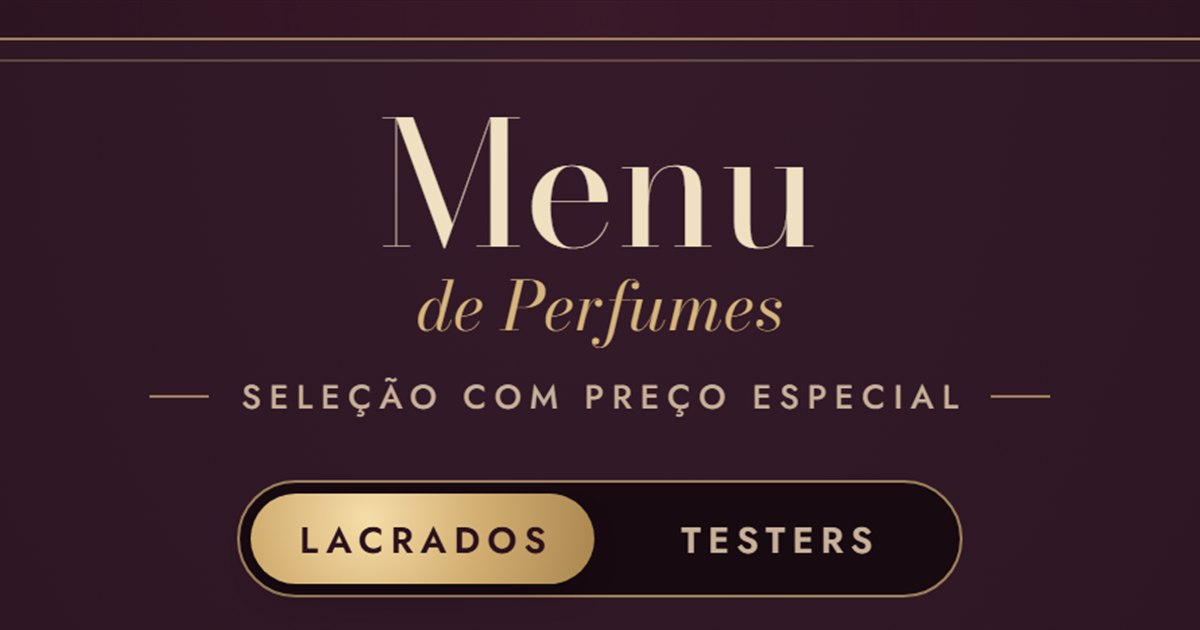
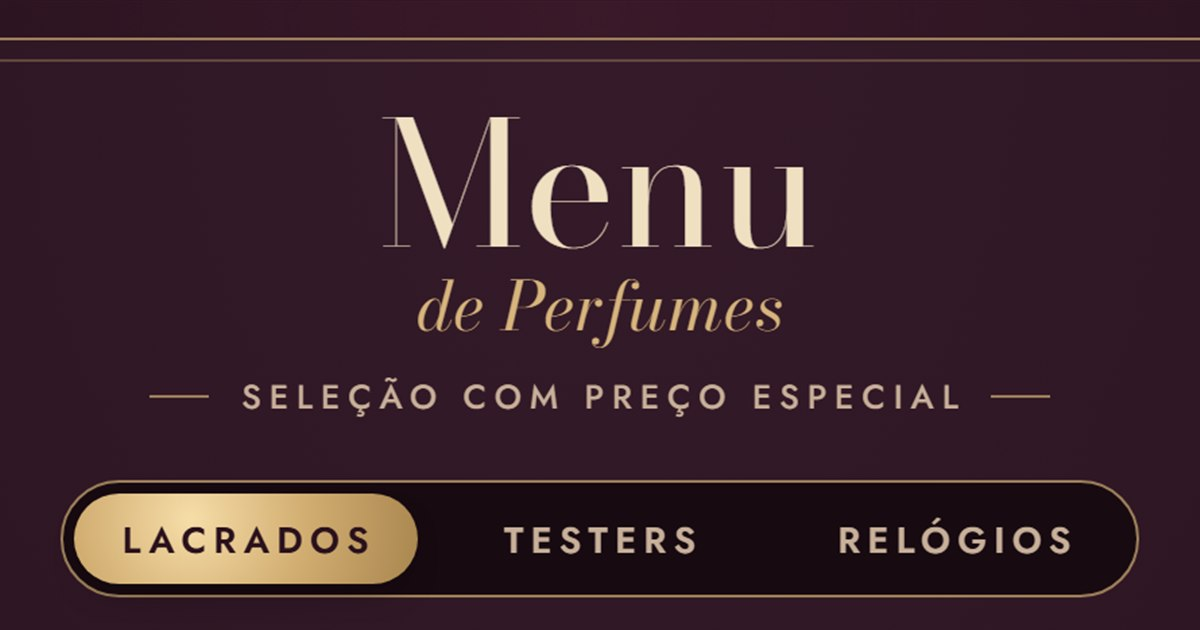
Aba Relogios: Technos Racer (2115KSL/1Y e 2315LAV/1V), Orient (MBSS1155A e MBSS1394) e Casio A158WA-1

Changed region(s): [[0.0308, 0.754, 0.9558, 0.9651]]

diff --git a/index.html b/index.html
@@ -175,15 +175,15 @@
     flex: none;
   }
 
-  /* ---------- abas (Perfumes / Testers) ----------
+  /* ---------- abas (Lacrados / Testers / Relógios) ----------
      radios escondidos controlam qual painel aparece, sem depender de JavaScript;
-     o script no fim só abre direto na aba Testers quando o link termina em #testers */
+     o script no fim só abre direto numa aba quando o link termina em #testers ou #relogios */
   .aba-radio { position: absolute; opacity: 0; pointer-events: none; }
   .tabs {
     position: relative;
     margin: 16px auto 2px;
     display: grid;
-    grid-template-columns: 1fr 1fr;   /* as duas abas com a mesma largura: a pílula só desliza meia largura */
+    grid-template-columns: 1fr 1fr 1fr;   /* as três abas com a mesma largura: a pílula desliza de uma em uma */
     width: fit-content;
     max-width: 100%;
     padding: 4px;
@@ -199,13 +199,14 @@
     top: 4px;
     bottom: 4px;
     left: 4px;
-    width: calc(50% - 6px);
+    width: calc((100% - 16px) / 3);   /* largura de uma aba: tira os 4px de borda interna dos dois lados e os 2 vãos de 4px */
     border-radius: 999px;
     background: radial-gradient(circle at 34% 28%, var(--seal-hi) 0%, var(--seal) 48%, var(--seal-lo) 100%);
     box-shadow: 0 6px 14px -8px var(--shadow);
     transition: transform 0.42s cubic-bezier(0.22, 1, 0.36, 1);
   }
   #aba-testers:checked ~ .tabs::before { transform: translateX(calc(100% + 4px)); }
+  #aba-relogios:checked ~ .tabs::before { transform: translateX(calc(200% + 8px)); }
   .tabs label {
     position: relative;
     z-index: 1;
@@ -230,7 +231,8 @@
     .tabs label:hover { color: var(--champagne); transform: scale(1.06); }
   }
   #aba-perfumes:checked ~ .tabs label[for="aba-perfumes"],
-  #aba-testers:checked ~ .tabs label[for="aba-testers"] {
+  #aba-testers:checked ~ .tabs label[for="aba-testers"],
+  #aba-relogios:checked ~ .tabs label[for="aba-relogios"] {
     color: var(--seal-ink);
   }
   @media (prefers-reduced-motion: reduce) {
@@ -238,13 +240,15 @@
     .tabs label:hover { transform: none; }
   }
   #aba-perfumes:focus-visible ~ .tabs label[for="aba-perfumes"],
-  #aba-testers:focus-visible ~ .tabs label[for="aba-testers"] {
+  #aba-testers:focus-visible ~ .tabs label[for="aba-testers"],
+  #aba-relogios:focus-visible ~ .tabs label[for="aba-relogios"] {
     outline: 2px solid var(--gold-bright);
     outline-offset: 3px;
   }
   .painel { display: none; }
   #aba-perfumes:checked ~ #painel-perfumes,
-  #aba-testers:checked ~ #painel-testers { display: block; }
+  #aba-testers:checked ~ #painel-testers,
+  #aba-relogios:checked ~ #painel-relogios { display: block; }
   .painel-nota {
     margin: 14px auto 0;
     max-width: 40ch;
@@ -927,8 +931,8 @@
     .stamp { font-size: 12px; letter-spacing: 0.12em; padding: 6px 9px 5px; }
     .stamp span { margin-right: -0.12em; }
     .tabs { margin-top: 14px; }
-    .tabs label { min-width: 0; padding: 9px 16px 8px; font-size: 12.5px; letter-spacing: 0.14em; }
-    .tabs label span { margin-right: -0.14em; }
+    .tabs label { min-width: 0; padding: 9px 12px 8px; font-size: 12px; letter-spacing: 0.1em; }   /* 3 abas cabem num celular de 360px */
+    .tabs label span { margin-right: -0.1em; }
     .painel-nota { font-size: 13px; }
   }
   @media (max-width: 370px) {
@@ -1024,9 +1028,11 @@
 
     <input class="aba-radio" type="radio" name="aba" id="aba-perfumes" checked>
     <input class="aba-radio" type="radio" name="aba" id="aba-testers">
+    <input class="aba-radio" type="radio" name="aba" id="aba-relogios">
     <div class="tabs">
       <label for="aba-perfumes"><span>Lacrados</span></label>
       <label for="aba-testers"><span>Testers</span></label>
+      <label for="aba-relogios"><span>Relógios</span></label>
     </div>
 
     <div class="painel" id="painel-perfumes">
@@ -1677,6 +1683,103 @@
 
     </div>
 
+    <div class="painel" id="painel-relogios">
+
+      <section>
+        <h2 class="sec-t"><span>Masculino</span></h2>
+
+        <article class="item">
+          <div class="frame-wrap">
+            <div class="frame">
+              <img src="img/technos-racer-2115ksl.png" alt="Technos Racer Prata e Preto 2115KSL/1Y" style="--w:100%; --l:0%; --b:0%">
+            </div>
+            <div class="seal"><b>28<em>%</em></b><span>OFF</span></div>
+          </div>
+          <div class="info">
+            <p class="brand">Technos <span class="vol"><span class="sep"></span>2115KSL/1Y</span></p>
+            <h3 class="name">Racer Prata e Preto</h3>
+            <p class="cond"><span>Novo</span></p>
+            <p class="de"><i>de</i> <s>R$&nbsp;490,00</s></p>
+            <p class="por"><i>por</i><span class="lead"></span><span class="price"><span class="cur">R$</span>349,00</span></p>
+            <p class="save"><span>Economize</span> R$&nbsp;141,00</p>
+          </div>
+        </article>
+
+        <article class="item">
+          <div class="frame-wrap">
+            <div class="frame">
+              <img src="img/technos-racer-2315lav.png" alt="Technos Racer Prata e Verde 2315LAV/1V" style="--w:100%; --l:0%; --b:0%">
+            </div>
+            <div class="seal"><b>16<em>%</em></b><span>OFF</span></div>
+          </div>
+          <div class="info">
+            <p class="brand">Technos <span class="vol"><span class="sep"></span>2315LAV/1V</span></p>
+            <h3 class="name">Racer Prata e Verde</h3>
+            <p class="cond"><span>Novo</span></p>
+            <p class="de"><i>de</i> <s>R$&nbsp;420,00</s></p>
+            <p class="por"><i>por</i><span class="lead"></span><span class="price"><span class="cur">R$</span>350,00</span></p>
+            <p class="save"><span>Economize</span> R$&nbsp;70,00</p>
+          </div>
+        </article>
+
+        <article class="item">
+          <div class="frame-wrap">
+            <div class="frame">
+              <img src="img/orient-mbss1155a.png" alt="Orient Analógico Prata e Azul MBSS1155A" style="--w:100%; --l:0%; --b:0%">
+            </div>
+            <div class="seal"><b>33<em>%</em></b><span>OFF</span></div>
+          </div>
+          <div class="info">
+            <p class="brand">Orient <span class="vol"><span class="sep"></span>MBSS1155A</span></p>
+            <h3 class="name">Analógico Prata e Azul</h3>
+            <p class="cond"><span>Novo</span></p>
+            <p class="de"><i>de</i> <s>R$&nbsp;299,00</s></p>
+            <p class="por"><i>por</i><span class="lead"></span><span class="price"><span class="cur">R$</span>199,00</span></p>
+            <p class="save"><span>Economize</span> R$&nbsp;100,00</p>
+          </div>
+        </article>
+
+        <article class="item">
+          <div class="frame-wrap">
+            <div class="frame">
+              <img src="img/orient-mbss1394.png" alt="Orient Analógico Prata e Preto MBSS1394" style="--w:100%; --l:0%; --b:0%">
+            </div>
+            <div class="seal"><b>30<em>%</em></b><span>OFF</span></div>
+          </div>
+          <div class="info">
+            <p class="brand">Orient <span class="vol"><span class="sep"></span>MBSS1394</span></p>
+            <h3 class="name">Analógico Prata e Preto</h3>
+            <p class="cond"><span>Novo</span></p>
+            <p class="de"><i>de</i> <s>R$&nbsp;358,00</s></p>
+            <p class="por"><i>por</i><span class="lead"></span><span class="price"><span class="cur">R$</span>249,00</span></p>
+            <p class="save"><span>Economize</span> R$&nbsp;109,00</p>
+          </div>
+        </article>
+      </section>
+
+      <section>
+        <h2 class="sec-t"><span>Unissex</span></h2>
+
+        <article class="item">
+          <div class="frame-wrap">
+            <div class="frame">
+              <img src="img/casio-a158wa-1.png" alt="Casio Vintage Prata A158WA-1" style="--w:100%; --l:0%; --b:0%">
+            </div>
+            <div class="seal"><b>44<em>%</em></b><span>OFF</span></div>
+          </div>
+          <div class="info">
+            <p class="brand">Casio <span class="vol"><span class="sep"></span>A158WA-1</span></p>
+            <h3 class="name">Vintage Prata</h3>
+            <p class="cond"><span>Novo</span></p>
+            <p class="de"><i>de</i> <s>R$&nbsp;270,00</s></p>
+            <p class="por"><i>por</i><span class="lead"></span><span class="price"><span class="cur">R$</span>150,00</span></p>
+            <p class="save"><span>Economize</span> R$&nbsp;120,00</p>
+          </div>
+        </article>
+      </section>
+
+    </div>
+
     <footer class="foot">
       <div class="cta-box">
         <p class="cta">Pra reservar o seu, é só me chamar.</p>
@@ -1712,14 +1815,19 @@
 <!-- perfil olfativo de cada perfume (acordes + pirâmide), tirado do Fragrantica com o perfil.ps1; o item liga pelo data-perfil -->
 <script type="application/json" id="perfis">{"ysl-libre":{"fonte":"https://www.fragrantica.com.br/perfume/Yves-Saint-Laurent/Libre-56077.html","acordes":[{"nome":"floral branco","forca":100,"cor":"#EDF2FB"},{"nome":"cítrico","forca":81,"cor":"#F9FF52"},{"nome":"lavanda","forca":75,"cor":"#9B7DB8"},{"nome":"baunilha","forca":64,"cor":"#FFFEC0"},{"nome":"aromático","forca":57,"cor":"#37A089"},{"nome":"doce","forca":56,"cor":"#EE363B"},{"nome":"atalcado","forca":53,"cor":"#EEDDCC"},{"nome":"animálico","forca":52,"cor":"#8E4B13"},{"nome":"almíscarado","forca":50,"cor":"#E7D8EA"},{"nome":"amadeirado","forca":50,"cor":"#774414"}],"notas":{"topo":["Lavanda","Mandarina","Groselha Preta","Petitgrain"],"coracao":["Lavanda","Flor de Laranjeira","Jasmim"],"fundo":["Baunilha de Madagascar","Almíscar","Cedro","Âmbar Cinzento"]},"quando":[{"nome":"Inverno","forca":82,"cor":"#78D6F0","votos":"6,8 mil"},{"nome":"Primavera","forca":76,"cor":"#9FE584","votos":"6,3 mil"},{"nome":"Verão","forca":46,"cor":"#FC958A","votos":"3,8 mil"},{"nome":"Outono","forca":100,"cor":"#F9BE6E","votos":"8,3 mil"},{"nome":"Dia","forca":90,"cor":"#F59E0B","votos":"7,5 mil"},{"nome":"Noite","forca":83,"cor":"#8BB8D4","votos":"6,9 mil"}]},"rabanne-million-gold-elixir":{"fonte":"https://www.fragrantica.com.br/perfume/Rabanne/Million-Gold-Elixir-102755.html","acordes":[{"nome":"baunilha","forca":100,"cor":"#FFFEC0"},{"nome":"amadeirado","forca":85,"cor":"#774414"},{"nome":"atalcado","forca":79,"cor":"#EEDDCC"},{"nome":"cítrico","forca":66,"cor":"#F9FF52"},{"nome":"especiado quente","forca":52,"cor":"#CC3300"},{"nome":"balsâmico","forca":52,"cor":"#AD8359"},{"nome":"doce","forca":48,"cor":"#EE363B"}],"notas":{"topo":["Mandarina Amarela"],"coracao":["Sândalo"],"fundo":["Baunilha"]},"quando":[{"nome":"Inverno","forca":100,"cor":"#78D6F0","votos":"506"},{"nome":"Primavera","forca":45,"cor":"#9FE584","votos":"226"},{"nome":"Verão","forca":14,"cor":"#FC958A","votos":"69"},{"nome":"Outono","forca":90,"cor":"#F9BE6E","votos":"457"},{"nome":"Dia","forca":53,"cor":"#F59E0B","votos":"267"},{"nome":"Noite","forca":88,"cor":"#8BB8D4","votos":"446"}]},"lancome-la-vie-est-belle-elixir":{"fonte":"https://www.fragrantica.com.br/perfume/Lancome/La-Vie-est-Belle-L-Elixir-95856.html","acordes":[{"nome":"frutado","forca":100,"cor":"#FC4B29"},{"nome":"doce","forca":79,"cor":"#EE363B"},{"nome":"ozônico","forca":79,"cor":"#C9FDFB"},{"nome":"rosa","forca":70,"cor":"#FE016B"},{"nome":"aquático","forca":66,"cor":"#63CCE2"},{"nome":"couro","forca":62,"cor":"#78483A"},{"nome":"álcool","forca":49,"cor":"#F8EA8C"},{"nome":"verde","forca":47,"cor":"#0E8C1D"},{"nome":"animálico","forca":46,"cor":"#8E4B13"},{"nome":"cítrico","forca":45,"cor":"#F9FF52"}],"notas":{"topo":["Framboesa","Licor","Bergamota da Calábria"],"coracao":["Folha de Violeta","Rosa"],"fundo":["Couro","Manteiga de Cacau","Cedro"]},"quando":[{"nome":"Inverno","forca":96,"cor":"#78D6F0","votos":"1,3 mil"},{"nome":"Primavera","forca":83,"cor":"#9FE584","votos":"1,1 mil"},{"nome":"Verão","forca":44,"cor":"#FC958A","votos":"589"},{"nome":"Outono","forca":100,"cor":"#F9BE6E","votos":"1,4 mil"},{"nome":"Dia","forca":91,"cor":"#F59E0B","votos":"1,2 mil"},{"nome":"Noite","forca":93,"cor":"#8BB8D4","votos":"1,3 mil"}]},"ch-ch-2015":{"fonte":"https://www.fragrantica.com.br/perfume/Carolina-Herrera/CH-2015-31507.html","acordes":[{"nome":"cítrico","forca":100,"cor":"#F9FF52"},{"nome":"amadeirado","forca":68,"cor":"#774414"},{"nome":"floral branco","forca":59,"cor":"#EDF2FB"},{"nome":"couro","forca":56,"cor":"#78483A"},{"nome":"doce","forca":53,"cor":"#EE363B"},{"nome":"animálico","forca":49,"cor":"#8E4B13"},{"nome":"aromático","forca":49,"cor":"#37A089"},{"nome":"atalcado","forca":48,"cor":"#EEDDCC"},{"nome":"patchouli","forca":47,"cor":"#63652E"},{"nome":"fresco especiado","forca":47,"cor":"#83C928"}],"notas":{"topo":["Toranja","Bergamota","Limão"],"coracao":["Flor de Laranjeira","Rosa","Jasmim"],"fundo":["Couro","Patchouli","Pralinê","Almíscar","Sândalo","Cedro"]},"quando":[{"nome":"Inverno","forca":75,"cor":"#78D6F0","votos":"337"},{"nome":"Primavera","forca":78,"cor":"#9FE584","votos":"347"},{"nome":"Verão","forca":46,"cor":"#FC958A","votos":"207"},{"nome":"Outono","forca":100,"cor":"#F9BE6E","votos":"447"},{"nome":"Dia","forca":99,"cor":"#F59E0B","votos":"441"},{"nome":"Noite","forca":83,"cor":"#8BB8D4","votos":"372"}]},"ch-good-girl-jasmine-absolute":{"fonte":"https://www.fragrantica.com.br/perfume/Carolina-Herrera/Good-Girl-Jasmine-Absolute-120291.html","acordes":[{"nome":"doce","forca":100,"cor":"#EE363B"},{"nome":"floral branco","forca":70,"cor":"#EDF2FB"},{"nome":"amêndoa","forca":61,"cor":"#F1E3C5"},{"nome":"frutado","forca":61,"cor":"#FC4B29"},{"nome":"baunilha","forca":56,"cor":"#FFFEC0"},{"nome":"caramelo","forca":52,"cor":"#DDA356"},{"nome":"âmbar","forca":49,"cor":"#BC4D10"},{"nome":"amendoado","forca":48,"cor":"#B4955F"},{"nome":"floral","forca":47,"cor":"#FF5F8D"}],"notas":{"topo":["Groselha Preta","Mandarina"],"coracao":["Jasmim","Amêndoa Amarga"],"fundo":["Toffee","Fava Tonka"]},"quando":[{"nome":"Inverno","forca":100,"cor":"#78D6F0","votos":"586"},{"nome":"Primavera","forca":55,"cor":"#9FE584","votos":"324"},{"nome":"Verão","forca":24,"cor":"#FC958A","votos":"141"},{"nome":"Outono","forca":98,"cor":"#F9BE6E","votos":"577"},{"nome":"Dia","forca":61,"cor":"#F59E0B","votos":"356"},{"nome":"Noite","forca":99,"cor":"#8BB8D4","votos":"582"}]},"rabanne-invictus-parfum":{"fonte":"https://www.fragrantica.com.br/perfume/Rabanne/Invictus-Parfum-90433.html","acordes":[{"nome":"almíscarado","forca":100,"cor":"#E7D8EA"},{"nome":"aromático","forca":98,"cor":"#37A089"},{"nome":"marinho","forca":89,"cor":"#0E529B"},{"nome":"saboneteado","forca":89,"cor":"#E3F6FC"},{"nome":"atalcado","forca":82,"cor":"#EEDDCC"},{"nome":"amadeirado","forca":79,"cor":"#774414"},{"nome":"lavanda","forca":75,"cor":"#9B7DB8"},{"nome":"aquático","forca":66,"cor":"#63CCE2"},{"nome":"ozônico","forca":54,"cor":"#C9FDFB"},{"nome":"salgado","forca":53,"cor":"#E9FFF9"}],"notas":{"topo":["Notas marinhas","Lavanda","Pimenta Rosa"],"coracao":["Sabão","Folha de Violeta","Murta"],"fundo":["Almíscar","Cashmeran","Sândalo"]},"quando":[{"nome":"Inverno","forca":38,"cor":"#78D6F0","votos":"821"},{"nome":"Primavera","forca":100,"cor":"#9FE584","votos":"2,1 mil"},{"nome":"Verão","forca":100,"cor":"#FC958A","votos":"2,1 mil"},{"nome":"Outono","forca":83,"cor":"#F9BE6E","votos":"1,8 mil"},{"nome":"Dia","forca":97,"cor":"#F59E0B","votos":"2,1 mil"},{"nome":"Noite","forca":78,"cor":"#8BB8D4","votos":"1,7 mil"}]},"givenchy-gentleman-2017":{"fonte":"https://www.fragrantica.com.br/perfume/Givenchy/Gentleman-2017-46040.html","acordes":[{"nome":"íris","forca":100,"cor":"#B7A7D7"},{"nome":"frutado","forca":96,"cor":"#FC4B29"},{"nome":"doce","forca":87,"cor":"#EE363B"},{"nome":"atalcado","forca":82,"cor":"#EEDDCC"},{"nome":"especiado quente","forca":80,"cor":"#CC3300"},{"nome":"aromático","forca":79,"cor":"#37A089"},{"nome":"lavanda","forca":78,"cor":"#9B7DB8"},{"nome":"couro","forca":69,"cor":"#78483A"},{"nome":"terroso","forca":68,"cor":"#544838"},{"nome":"violeta","forca":65,"cor":"#9C1DFF"}],"notas":{"topo":["Pera","Cardamomo","Abacaxi"],"coracao":["Íris","Lavanda","Gerânio"],"fundo":["Couro","Casca de Baunilha Negra","Patchouli"]},"quando":[{"nome":"Inverno","forca":56,"cor":"#78D6F0","votos":"812"},{"nome":"Primavera","forca":100,"cor":"#9FE584","votos":"1,4 mil"},{"nome":"Verão","forca":60,"cor":"#FC958A","votos":"862"},{"nome":"Outono","forca":96,"cor":"#F9BE6E","votos":"1,4 mil"},{"nome":"Dia","forca":96,"cor":"#F59E0B","votos":"1,4 mil"},{"nome":"Noite","forca":72,"cor":"#8BB8D4","votos":"1 mil"}]},"hugo-jeans":{"fonte":"https://www.fragrantica.com.br/perfume/Hugo-Boss/Hugo-Jeans-Man-78426.html","acordes":[{"nome":"aromático","forca":100,"cor":"#37A089"},{"nome":"amadeirado","forca":82,"cor":"#774414"},{"nome":"fresco especiado","forca":79,"cor":"#83C928"},{"nome":"cítrico","forca":77,"cor":"#F9FF52"},{"nome":"verde","forca":63,"cor":"#0E8C1D"}],"notas":{"topo":["Toranja","Lima"],"coracao":["Bagas de Zimbro","Hortelã"],"fundo":["Cedro","Vetiver"]},"quando":[{"nome":"Inverno","forca":20,"cor":"#78D6F0","votos":"41"},{"nome":"Primavera","forca":98,"cor":"#9FE584","votos":"204"},{"nome":"Verão","forca":93,"cor":"#FC958A","votos":"193"},{"nome":"Outono","forca":49,"cor":"#F9BE6E","votos":"102"},{"nome":"Dia","forca":100,"cor":"#F59E0B","votos":"208"},{"nome":"Noite","forca":23,"cor":"#8BB8D4","votos":"48"}]},"boss-bottled-night":{"fonte":"https://www.fragrantica.com.br/perfume/Hugo-Boss/Boss-Bottled-Night-8825.html","acordes":[{"nome":"amadeirado","forca":100,"cor":"#774414"},{"nome":"violeta","forca":95,"cor":"#9C1DFF"},{"nome":"atalcado","forca":94,"cor":"#EEDDCC"},{"nome":"lavanda","forca":82,"cor":"#9B7DB8"},{"nome":"couro","forca":75,"cor":"#78483A"},{"nome":"almíscarado","forca":67,"cor":"#E7D8EA"},{"nome":"defumado","forca":66,"cor":"#827487"},{"nome":"floral","forca":55,"cor":"#FF5F8D"},{"nome":"aromático","forca":51,"cor":"#37A089"},{"nome":"fresco especiado","forca":46,"cor":"#83C928"}],"notas":{"topo":["Lavanda","Bétula"],"coracao":["Violeta"],"fundo":["Notas Amadeiradas","Almíscar"]},"quando":[{"nome":"Inverno","forca":66,"cor":"#78D6F0","votos":"1,6 mil"},{"nome":"Primavera","forca":75,"cor":"#9FE584","votos":"1,8 mil"},{"nome":"Verão","forca":42,"cor":"#FC958A","votos":"1 mil"},{"nome":"Outono","forca":81,"cor":"#F9BE6E","votos":"2 mil"},{"nome":"Dia","forca":47,"cor":"#F59E0B","votos":"1,2 mil"},{"nome":"Noite","forca":100,"cor":"#8BB8D4","votos":"2,4 mil"}]},"jpg-ultra-male":{"fonte":"https://www.fragrantica.com.br/perfume/Jean-Paul-Gaultier/Ultra-Male-30947.html","acordes":[{"nome":"baunilha","forca":100,"cor":"#FFFEC0"},{"nome":"frutado","forca":80,"cor":"#FC4B29"},{"nome":"aromático","forca":80,"cor":"#37A089"},{"nome":"doce","forca":79,"cor":"#EE363B"},{"nome":"canela","forca":70,"cor":"#D2691E"},{"nome":"especiado quente","forca":69,"cor":"#CC3300"},{"nome":"fresco especiado","forca":64,"cor":"#83C928"},{"nome":"lavanda","forca":63,"cor":"#9B7DB8"},{"nome":"atalcado","forca":59,"cor":"#EEDDCC"},{"nome":"verde","forca":59,"cor":"#0E8C1D"}],"notas":{"topo":["Pera","Lavanda","Hortelã","Bergamota","Limão"],"coracao":["Canela","Sálvia Esclaréia","Alcarávia"],"fundo":["Casca de Baunilha Negra","Âmbar","Patchouli","Cedro"]},"quando":[{"nome":"Inverno","forca":100,"cor":"#78D6F0","votos":"11,1 mil"},{"nome":"Primavera","forca":53,"cor":"#9FE584","votos":"5,9 mil"},{"nome":"Verão","forca":26,"cor":"#FC958A","votos":"2,8 mil"},{"nome":"Outono","forca":88,"cor":"#F9BE6E","votos":"9,7 mil"},{"nome":"Dia","forca":38,"cor":"#F59E0B","votos":"4,2 mil"},{"nome":"Noite","forca":99,"cor":"#8BB8D4","votos":"11 mil"}]},"jpg-classique":{"fonte":"https://www.fragrantica.com.br/perfume/Jean-Paul-Gaultier/Classique-427.html","acordes":[{"nome":"floral branco","forca":100,"cor":"#EDF2FB"},{"nome":"doce","forca":98,"cor":"#EE363B"},{"nome":"atalcado","forca":97,"cor":"#EEDDCC"},{"nome":"cítrico","forca":87,"cor":"#F9FF52"},{"nome":"baunilha","forca":75,"cor":"#FFFEC0"},{"nome":"floral","forca":72,"cor":"#FF5F8D"},{"nome":"picante suave","forca":72,"cor":"#E27752"},{"nome":"anis","forca":66,"cor":"#C3D7B3"},{"nome":"amadeirado","forca":62,"cor":"#774414"},{"nome":"floral amarelo","forca":62,"cor":"#FFDC10"}],"notas":{"topo":["Flor de Laranjeira","Anis Estrelado","Rosa","Mandarina","Pera","Bergamota"],"coracao":["Ylang Ylang","Gengibre","Orquídea","Tuberosa","Íris","Ameixa"],"fundo":["Baunilha","Âmbar","Almíscar","Canela","Sândalo"]},"quando":[{"nome":"Inverno","forca":92,"cor":"#78D6F0","votos":"3,4 mil"},{"nome":"Primavera","forca":49,"cor":"#9FE584","votos":"1,8 mil"},{"nome":"Verão","forca":30,"cor":"#FC958A","votos":"1,1 mil"},{"nome":"Outono","forca":87,"cor":"#F9BE6E","votos":"3,2 mil"},{"nome":"Dia","forca":68,"cor":"#F59E0B","votos":"2,5 mil"},{"nome":"Noite","forca":100,"cor":"#8BB8D4","votos":"3,6 mil"}]},"rabanne-lady-million-fabulous":{"fonte":"https://www.fragrantica.com.br/perfume/Rabanne/Lady-Million-Fabulous-66336.html","acordes":[{"nome":"baunilha","forca":100,"cor":"#FFFEC0"},{"nome":"floral branco","forca":81,"cor":"#EDF2FB"},{"nome":"doce","forca":70,"cor":"#EE363B"},{"nome":"tuberosa","forca":62,"cor":"#EBFAF3"},{"nome":"floral amarelo","forca":51,"cor":"#FFDC10"},{"nome":"cítrico","forca":48,"cor":"#F9FF52"},{"nome":"âmbar","forca":48,"cor":"#BC4D10"},{"nome":"aldeídico","forca":47,"cor":"#D8E9F6"},{"nome":"picante suave","forca":46,"cor":"#E27752"}],"notas":{"topo":["Mandarina","Pimenta Rosa"],"coracao":["Tuberosa","Notas Solares","Jasmim","Ylang Ylang"],"fundo":["Baunilha","Fava Tonka","Musgo"]},"quando":[{"nome":"Inverno","forca":92,"cor":"#78D6F0","votos":"335"},{"nome":"Primavera","forca":48,"cor":"#9FE584","votos":"175"},{"nome":"Verão","forca":33,"cor":"#FC958A","votos":"120"},{"nome":"Outono","forca":95,"cor":"#F9BE6E","votos":"346"},{"nome":"Dia","forca":60,"cor":"#F59E0B","votos":"220"},{"nome":"Noite","forca":100,"cor":"#8BB8D4","votos":"365"}]},"rabanne-lady-million-royal":{"fonte":"https://www.fragrantica.com.br/perfume/Rabanne/Lady-Million-Royal-79160.html","acordes":[{"nome":"amadeirado","forca":100,"cor":"#774414"},{"nome":"floral branco","forca":88,"cor":"#EDF2FB"},{"nome":"frutado","forca":53,"cor":"#FC4B29"},{"nome":"fresco especiado","forca":49,"cor":"#83C928"},{"nome":"azedo","forca":44,"cor":"#C0E741"}],"notas":{"topo":["Romã"],"coracao":["Flores Brancas"],"fundo":["Notas Amadeiradas"]},"quando":[{"nome":"Inverno","forca":88,"cor":"#78D6F0","votos":"184"},{"nome":"Primavera","forca":74,"cor":"#9FE584","votos":"154"},{"nome":"Verão","forca":36,"cor":"#FC958A","votos":"76"},{"nome":"Outono","forca":100,"cor":"#F9BE6E","votos":"209"},{"nome":"Dia","forca":80,"cor":"#F59E0B","votos":"167"},{"nome":"Noite","forca":85,"cor":"#8BB8D4","votos":"177"}]},"jpg-gaultier-divine":{"fonte":"https://www.fragrantica.com.br/perfume/Jean-Paul-Gaultier/Gaultier-Divine-83889.html","acordes":[{"nome":"floral branco","forca":100,"cor":"#EDF2FB"},{"nome":"doce","forca":87,"cor":"#EE363B"},{"nome":"aquático","forca":76,"cor":"#63CCE2"},{"nome":"marinho","forca":72,"cor":"#0E529B"},{"nome":"aromático","forca":59,"cor":"#37A089"},{"nome":"atalcado","forca":59,"cor":"#EEDDCC"},{"nome":"floral amarelo","forca":52,"cor":"#FFDC10"},{"nome":"salgado","forca":47,"cor":"#E9FFF9"},{"nome":"almíscarado","forca":46,"cor":"#E7D8EA"},{"nome":"amadeirado","forca":45,"cor":"#774414"}],"notas":{"topo":["Calypsone®","Bergamota","Bagas Vermelhas"],"coracao":["Lírio","Ylang Ylang","Jasmim"],"fundo":["Merengue","Almíscar","Patchouli"]},"quando":[{"nome":"Inverno","forca":39,"cor":"#78D6F0","votos":"815"},{"nome":"Primavera","forca":88,"cor":"#9FE584","votos":"1,8 mil"},{"nome":"Verão","forca":100,"cor":"#FC958A","votos":"2,1 mil"},{"nome":"Outono","forca":58,"cor":"#F9BE6E","votos":"1,2 mil"},{"nome":"Dia","forca":99,"cor":"#F59E0B","votos":"2,1 mil"},{"nome":"Noite","forca":58,"cor":"#8BB8D4","votos":"1,2 mil"}]},"dg-light-blue":{"fonte":"https://www.fragrantica.com.br/perfume/Dolce-Gabbana/Light-Blue-485.html","acordes":[{"nome":"cítrico","forca":100,"cor":"#F9FF52"},{"nome":"amadeirado","forca":74,"cor":"#774414"},{"nome":"fresco","forca":63,"cor":"#9BE5ED"},{"nome":"frutado","forca":59,"cor":"#FC4B29"},{"nome":"aromático","forca":54,"cor":"#37A089"},{"nome":"almíscarado","forca":50,"cor":"#E7D8EA"},{"nome":"atalcado","forca":47,"cor":"#EEDDCC"},{"nome":"verde","forca":44,"cor":"#0E8C1D"}],"notas":{"topo":["Limão Siciliano","Maçã","Cedro","Câmpanula"],"coracao":["Bambu","Jasmim","Rosa Branca"],"fundo":["Cedro","Almíscar","Âmbar"]},"quando":[{"nome":"Inverno","forca":11,"cor":"#78D6F0","votos":"1,8 mil"},{"nome":"Primavera","forca":55,"cor":"#9FE584","votos":"9,3 mil"},{"nome":"Verão","forca":100,"cor":"#FC958A","votos":"17,1 mil"},{"nome":"Outono","forca":12,"cor":"#F9BE6E","votos":"2,1 mil"},{"nome":"Dia","forca":94,"cor":"#F59E0B","votos":"16,1 mil"},{"nome":"Noite","forca":12,"cor":"#8BB8D4","votos":"2 mil"}]},"ch-212-vip-rose":{"fonte":"https://www.fragrantica.com.br/perfume/Carolina-Herrera/212-VIP-Rose-22857.html","acordes":[{"nome":"floral","forca":100,"cor":"#FF5F8D"},{"nome":"almíscarado","forca":79,"cor":"#E7D8EA"},{"nome":"frutado","forca":67,"cor":"#FC4B29"},{"nome":"amadeirado","forca":66,"cor":"#774414"},{"nome":"atalcado","forca":53,"cor":"#EEDDCC"},{"nome":"rosa","forca":51,"cor":"#FE016B"}],"notas":{"topo":["Champanhe Rosé","Pimenta Rosa"],"coracao":["Flor de Pêssego","Rosa"],"fundo":["Almíscar Branco","Notas Amadeiradas"]},"quando":[{"nome":"Inverno","forca":47,"cor":"#78D6F0","votos":"934"},{"nome":"Primavera","forca":100,"cor":"#9FE584","votos":"2 mil"},{"nome":"Verão","forca":61,"cor":"#FC958A","votos":"1,2 mil"},{"nome":"Outono","forca":72,"cor":"#F9BE6E","votos":"1,4 mil"},{"nome":"Dia","forca":100,"cor":"#F59E0B","votos":"2 mil"},{"nome":"Noite","forca":81,"cor":"#8BB8D4","votos":"1,6 mil"}]},"rabanne-lady-million-empire":{"fonte":"https://www.fragrantica.com.br/perfume/Rabanne/Lady-Million-Empire-55787.html","acordes":[{"nome":"frutado","forca":100,"cor":"#FC4B29"},{"nome":"doce","forca":76,"cor":"#EE363B"},{"nome":"amadeirado","forca":73,"cor":"#774414"},{"nome":"floral","forca":64,"cor":"#FF5F8D"},{"nome":"cítrico","forca":63,"cor":"#F9FF52"},{"nome":"fresco","forca":58,"cor":"#9BE5ED"},{"nome":"especiado quente","forca":58,"cor":"#CC3300"},{"nome":"picante suave","forca":53,"cor":"#E27752"},{"nome":"patchouli","forca":50,"cor":"#63652E"},{"nome":"floral branco","forca":49,"cor":"#EDF2FB"}],"notas":{"topo":["Groselha Vermelha","Laranja","Essência de Néroli"],"coracao":["Ameixa Mirabelle","Magnólia","Osmanthus","Flor de Laranjeira"],"fundo":["Conhaque","Patchouli","Almíscar Branco"]},"quando":[{"nome":"Inverno","forca":73,"cor":"#78D6F0","votos":"259"},{"nome":"Primavera","forca":63,"cor":"#9FE584","votos":"223"},{"nome":"Verão","forca":33,"cor":"#FC958A","votos":"116"},{"nome":"Outono","forca":100,"cor":"#F9BE6E","votos":"354"},{"nome":"Dia","forca":86,"cor":"#F59E0B","votos":"304"},{"nome":"Noite","forca":81,"cor":"#8BB8D4","votos":"285"}]},"armani-acqua-di-gio-profondo":{"fonte":"https://www.fragrantica.com.br/perfume/Giorgio-Armani/Acqua-di-Gio-Profondo-59532.html","acordes":[{"nome":"marinho","forca":100,"cor":"#0E529B"},{"nome":"aromático","forca":98,"cor":"#37A089"},{"nome":"cítrico","forca":81,"cor":"#F9FF52"},{"nome":"fresco especiado","forca":67,"cor":"#83C928"},{"nome":"fresco","forca":65,"cor":"#9BE5ED"},{"nome":"amadeirado","forca":61,"cor":"#774414"},{"nome":"mineral","forca":59,"cor":"#71BBBF"},{"nome":"salgado","forca":47,"cor":"#E9FFF9"},{"nome":"lavanda","forca":45,"cor":"#9B7DB8"}],"notas":{"topo":["Notas Oceânicas","Aquozone®","Bergamota","Mandarina Verde"],"coracao":["Alecrim","Lavanda","Cipreste","Lentisco"],"fundo":["Notas Minerais","Almíscar","Patchouli","Âmbar"]},"quando":[{"nome":"Inverno","forca":9,"cor":"#78D6F0","votos":"801"},{"nome":"Primavera","forca":79,"cor":"#9FE584","votos":"7 mil"},{"nome":"Verão","forca":100,"cor":"#FC958A","votos":"8,8 mil"},{"nome":"Outono","forca":24,"cor":"#F9BE6E","votos":"2,1 mil"},{"nome":"Dia","forca":86,"cor":"#F59E0B","votos":"7,6 mil"},{"nome":"Noite","forca":28,"cor":"#8BB8D4","votos":"2,5 mil"}]},"rabanne-phantom":{"fonte":"https://www.fragrantica.com.br/perfume/Rabanne/Phantom-68226.html","acordes":[{"nome":"cítrico","forca":100,"cor":"#F9FF52"},{"nome":"baunilha","forca":84,"cor":"#FFFEC0"},{"nome":"lavanda","forca":77,"cor":"#9B7DB8"},{"nome":"terroso","forca":69,"cor":"#544838"},{"nome":"aromático","forca":69,"cor":"#37A089"},{"nome":"amadeirado","forca":53,"cor":"#774414"},{"nome":"defumado","forca":52,"cor":"#827487"},{"nome":"frutado","forca":49,"cor":"#FC4B29"},{"nome":"fresco","forca":48,"cor":"#9BE5ED"},{"nome":"fresco especiado","forca":48,"cor":"#83C928"}],"notas":{"topo":["Lavanda","Raspas de Limão","Limão de Amalfi"],"coracao":["Lavanda","Notas Terrosas","Maçã","Fumaça","Patchouli"],"fundo":["Baunilha","Lavanda","Vetiver"]},"quando":[{"nome":"Inverno","forca":83,"cor":"#78D6F0","votos":"2,5 mil"},{"nome":"Primavera","forca":100,"cor":"#9FE584","votos":"3 mil"},{"nome":"Verão","forca":66,"cor":"#FC958A","votos":"2 mil"},{"nome":"Outono","forca":100,"cor":"#F9BE6E","votos":"3 mil"},{"nome":"Dia","forca":96,"cor":"#F59E0B","votos":"2,9 mil"},{"nome":"Noite","forca":90,"cor":"#8BB8D4","votos":"2,7 mil"}]},"ch-212-sexy-men":{"fonte":"https://www.fragrantica.com.br/perfume/Carolina-Herrera/212-Sexy-Men-1054.html","acordes":[{"nome":"baunilha","forca":100,"cor":"#FFFEC0"},{"nome":"amadeirado","forca":90,"cor":"#774414"},{"nome":"atalcado","forca":81,"cor":"#EEDDCC"},{"nome":"especiado quente","forca":79,"cor":"#CC3300"},{"nome":"fresco especiado","forca":71,"cor":"#83C928"},{"nome":"cítrico","forca":61,"cor":"#F9FF52"},{"nome":"floral","forca":58,"cor":"#FF5F8D"},{"nome":"aromático","forca":53,"cor":"#37A089"},{"nome":"almíscarado","forca":52,"cor":"#E7D8EA"},{"nome":"âmbar","forca":51,"cor":"#BC4D10"}],"notas":{"topo":["Mandarina","Bergamota","Notas Verdes"],"coracao":["Pimenta","Cardamomo","Flores"],"fundo":["Baunilha","Madeira Guaiac","Sândalo","Almíscar","Âmbar"]},"quando":[{"nome":"Inverno","forca":88,"cor":"#78D6F0","votos":"1,4 mil"},{"nome":"Primavera","forca":39,"cor":"#9FE584","votos":"645"},{"nome":"Verão","forca":18,"cor":"#FC958A","votos":"286"},{"nome":"Outono","forca":84,"cor":"#F9BE6E","votos":"1,4 mil"},{"nome":"Dia","forca":36,"cor":"#F59E0B","votos":"589"},{"nome":"Noite","forca":100,"cor":"#8BB8D4","votos":"1,6 mil"}]},"armani-my-way":{"fonte":"https://www.fragrantica.com.br/perfume/Giorgio-Armani/My-Way-62036.html","acordes":[{"nome":"floral branco","forca":100,"cor":"#EDF2FB"},{"nome":"tuberosa","forca":61,"cor":"#EBFAF3"},{"nome":"cítrico","forca":58,"cor":"#F9FF52"},{"nome":"animálico","forca":47,"cor":"#8E4B13"},{"nome":"baunilha","forca":44,"cor":"#FFFEC0"}],"notas":{"topo":["Flor de Laranjeira","Bergamota"],"coracao":["Tuberosa","Jasmim Indiano"],"fundo":["Baunilha de Madagascar","Almíscar Branco","Cedro da Virgínia"]},"quando":[{"nome":"Inverno","forca":35,"cor":"#78D6F0","votos":"1,9 mil"},{"nome":"Primavera","forca":100,"cor":"#9FE584","votos":"5,5 mil"},{"nome":"Verão","forca":72,"cor":"#FC958A","votos":"3,9 mil"},{"nome":"Outono","forca":50,"cor":"#F9BE6E","votos":"2,8 mil"},{"nome":"Dia","forca":98,"cor":"#F59E0B","votos":"5,4 mil"},{"nome":"Noite","forca":38,"cor":"#8BB8D4","votos":"2,1 mil"}]},"lancome-idole-nectar":{"fonte":"https://www.fragrantica.com.br/perfume/Lancome/Idole-Nectar-74137.html","acordes":[{"nome":"rosa","forca":100,"cor":"#FE016B"},{"nome":"baunilha","forca":72,"cor":"#FFFEC0"},{"nome":"caramelo","forca":69,"cor":"#DDA356"},{"nome":"doce","forca":54,"cor":"#EE363B"},{"nome":"floral","forca":51,"cor":"#FF5F8D"}],"notas":{"topo":["Rosa de Grasse","Rosa","Rosa Turca"],"coracao":["Caramelo","Pipoca"],"fundo":["Baunilha"]},"quando":[{"nome":"Inverno","forca":52,"cor":"#78D6F0","votos":"647"},{"nome":"Primavera","forca":100,"cor":"#9FE584","votos":"1,2 mil"},{"nome":"Verão","forca":74,"cor":"#FC958A","votos":"926"},{"nome":"Outono","forca":82,"cor":"#F9BE6E","votos":"1 mil"},{"nome":"Dia","forca":98,"cor":"#F59E0B","votos":"1,2 mil"},{"nome":"Noite","forca":53,"cor":"#8BB8D4","votos":"666"}]},"lancome-idole-aura":{"fonte":"https://www.fragrantica.com.br/perfume/Lancome/Idole-Aura-67578.html","acordes":[{"nome":"baunilha","forca":100,"cor":"#FFFEC0"},{"nome":"rosa","forca":86,"cor":"#FE016B"},{"nome":"salgado","forca":79,"cor":"#E9FFF9"},{"nome":"atalcado","forca":75,"cor":"#EEDDCC"},{"nome":"floral branco","forca":71,"cor":"#EDF2FB"},{"nome":"almíscarado","forca":65,"cor":"#E7D8EA"},{"nome":"floral","forca":59,"cor":"#FF5F8D"},{"nome":"marinho","forca":55,"cor":"#0E529B"},{"nome":"doce","forca":46,"cor":"#EE363B"}],"notas":{"topo":["Sal","Rosa","Bergamota"],"coracao":["Rosa","Jasmim"],"fundo":["Baunilha de Bourbon","Sal","Almíscar","Heliotrópio"]},"quando":[{"nome":"Inverno","forca":32,"cor":"#78D6F0","votos":"336"},{"nome":"Primavera","forca":98,"cor":"#9FE584","votos":"1 mil"},{"nome":"Verão","forca":93,"cor":"#FC958A","votos":"972"},{"nome":"Outono","forca":57,"cor":"#F9BE6E","votos":"593"},{"nome":"Dia","forca":100,"cor":"#F59E0B","votos":"1 mil"},{"nome":"Noite","forca":40,"cor":"#8BB8D4","votos":"414"}]},"lancome-la-vie-est-belle-soleil-cristal":{"fonte":"https://www.fragrantica.com.br/perfume/Lancome/La-Vie-Est-Belle-Soleil-Cristal-65156.html","acordes":[{"nome":"baunilha","forca":100,"cor":"#FFFEC0"},{"nome":"coco","forca":95,"cor":"#F1E8D4"},{"nome":"doce","forca":95,"cor":"#EE363B"},{"nome":"cítrico","forca":73,"cor":"#F9FF52"},{"nome":"floral branco","forca":70,"cor":"#EDF2FB"},{"nome":"atalcado","forca":64,"cor":"#EEDDCC"},{"nome":"floral amarelo","forca":62,"cor":"#FFDC10"},{"nome":"amadeirado","forca":61,"cor":"#774414"},{"nome":"íris","forca":60,"cor":"#B7A7D7"},{"nome":"lactônico","forca":53,"cor":"#FBF9F2"}],"notas":{"topo":["Mandarina","Pimenta Rosa","Bergamota"],"coracao":["Ylang Ylang","Íris","Flor de Laranjeira","Jasmim"],"fundo":["Coco","Baunilha","Patchouli"]},"quando":[{"nome":"Inverno","forca":39,"cor":"#78D6F0","votos":"451"},{"nome":"Primavera","forca":84,"cor":"#9FE584","votos":"968"},{"nome":"Verão","forca":96,"cor":"#FC958A","votos":"1,1 mil"},{"nome":"Outono","forca":52,"cor":"#F9BE6E","votos":"598"},{"nome":"Dia","forca":100,"cor":"#F59E0B","votos":"1,1 mil"},{"nome":"Noite","forca":49,"cor":"#8BB8D4","votos":"564"}]},"lancome-la-vie-est-belle-iris-absolu":{"fonte":"https://www.fragrantica.com.br/perfume/Lancome/La-Vie-Est-Belle-Iris-Absolu-79245.html","acordes":[{"nome":"íris","forca":100,"cor":"#B7A7D7"},{"nome":"frutado","forca":80,"cor":"#FC4B29"},{"nome":"amadeirado","forca":80,"cor":"#774414"},{"nome":"doce","forca":79,"cor":"#EE363B"},{"nome":"atalcado","forca":72,"cor":"#EEDDCC"},{"nome":"terroso","forca":71,"cor":"#544838"},{"nome":"floral branco","forca":67,"cor":"#EDF2FB"},{"nome":"violeta","forca":65,"cor":"#9C1DFF"},{"nome":"patchouli","forca":63,"cor":"#63652E"},{"nome":"floral","forca":48,"cor":"#FF5F8D"}],"notas":{"topo":["Groselha Preta","Figo","Flor de Laranjeira"],"coracao":["Flor de Laranjeira","Jasmim"],"fundo":["Íris","Acorde Gourmand","Patchouli"]},"quando":[{"nome":"Inverno","forca":96,"cor":"#78D6F0","votos":"807"},{"nome":"Primavera","forca":75,"cor":"#9FE584","votos":"630"},{"nome":"Verão","forca":31,"cor":"#FC958A","votos":"260"},{"nome":"Outono","forca":100,"cor":"#F9BE6E","votos":"842"},{"nome":"Dia","forca":88,"cor":"#F59E0B","votos":"742"},{"nome":"Noite","forca":84,"cor":"#8BB8D4","votos":"705"}]},"boss-the-scent-magnetic":{"fonte":"https://www.fragrantica.com.br/perfume/Hugo-Boss/Boss-The-Scent-For-Him-Magnetic-78424.html","acordes":[{"nome":"baunilha","forca":100,"cor":"#FFFEC0"},{"nome":"atalcado","forca":51,"cor":"#EEDDCC"},{"nome":"frutado","forca":48,"cor":"#FC4B29"},{"nome":"doce","forca":44,"cor":"#EE363B"},{"nome":"balsâmico","forca":40,"cor":"#AD8359"}],"notas":{"topo":["Maninka"],"coracao":["Farelo"],"fundo":["Casca de Baunilha Negra"]},"quando":[{"nome":"Inverno","forca":100,"cor":"#78D6F0","votos":"1,1 mil"},{"nome":"Primavera","forca":58,"cor":"#9FE584","votos":"650"},{"nome":"Verão","forca":19,"cor":"#FC958A","votos":"215"},{"nome":"Outono","forca":92,"cor":"#F9BE6E","votos":"1 mil"},{"nome":"Dia","forca":59,"cor":"#F59E0B","votos":"665"},{"nome":"Noite","forca":90,"cor":"#8BB8D4","votos":"1 mil"}]},"boss-the-scent":{"fonte":"https://www.fragrantica.com.br/perfume/Hugo-Boss/Boss-The-Scent-31445.html","acordes":[{"nome":"fresco especiado","forca":100,"cor":"#83C928"},{"nome":"cítrico","forca":98,"cor":"#F9FF52"},{"nome":"couro","forca":84,"cor":"#78483A"},{"nome":"lavanda","forca":77,"cor":"#9B7DB8"},{"nome":"amadeirado","forca":69,"cor":"#774414"},{"nome":"frutado","forca":66,"cor":"#FC4B29"},{"nome":"fresco","forca":58,"cor":"#9BE5ED"},{"nome":"animálico","forca":57,"cor":"#8E4B13"},{"nome":"aromático","forca":56,"cor":"#37A089"},{"nome":"defumado","forca":46,"cor":"#827487"}],"notas":{"topo":["Gengibre","Mandarina","Bergamota"],"coracao":["Maninka","Lavanda"],"fundo":["Couro","Notas Amadeiradas"]},"quando":[{"nome":"Inverno","forca":77,"cor":"#78D6F0","votos":"1,8 mil"},{"nome":"Primavera","forca":60,"cor":"#9FE584","votos":"1,4 mil"},{"nome":"Verão","forca":27,"cor":"#FC958A","votos":"629"},{"nome":"Outono","forca":100,"cor":"#F9BE6E","votos":"2,4 mil"},{"nome":"Dia","forca":76,"cor":"#F59E0B","votos":"1,8 mil"},{"nome":"Noite","forca":77,"cor":"#8BB8D4","votos":"1,8 mil"}]},"rabanne-invictus-elixir":{"fonte":"https://www.fragrantica.com.br/perfume/Rabanne/Invictus-Elixir-126365.html","acordes":[{"nome":"baunilha","forca":100,"cor":"#FFFEC0"},{"nome":"mineral","forca":66,"cor":"#71BBBF"},{"nome":"amadeirado","forca":65,"cor":"#774414"},{"nome":"coco","forca":63,"cor":"#F1E8D4"},{"nome":"aromático","forca":58,"cor":"#37A089"},{"nome":"salgado","forca":53,"cor":"#E9FFF9"},{"nome":"lavanda","forca":53,"cor":"#9B7DB8"},{"nome":"fresco especiado","forca":49,"cor":"#83C928"},{"nome":"âmbar","forca":46,"cor":"#BC4D10"},{"nome":"cítrico","forca":45,"cor":"#F9FF52"}],"notas":{"topo":["Notas Minerais","Sal","Toranja"],"coracao":["Coco","Lavanda","Cipreste"],"fundo":["Caviar de Baunilha","Benjoim","Cedro","Musgo"]},"quando":[{"nome":"Inverno","forca":98,"cor":"#78D6F0","votos":"390"},{"nome":"Primavera","forca":80,"cor":"#9FE584","votos":"318"},{"nome":"Verão","forca":37,"cor":"#FC958A","votos":"148"},{"nome":"Outono","forca":98,"cor":"#F9BE6E","votos":"393"},{"nome":"Dia","forca":77,"cor":"#F59E0B","votos":"306"},{"nome":"Noite","forca":100,"cor":"#8BB8D4","votos":"399"}]},"ch-212-vip-black":{"fonte":"https://www.fragrantica.com.br/perfume/Carolina-Herrera/212-VIP-Black-46093.html","acordes":[{"nome":"aromático","forca":100,"cor":"#37A089"},{"nome":"baunilha","forca":96,"cor":"#FFFEC0"},{"nome":"picante suave","forca":83,"cor":"#E27752"},{"nome":"lavanda","forca":78,"cor":"#9B7DB8"},{"nome":"anis","forca":78,"cor":"#C3D7B3"},{"nome":"almíscarado","forca":73,"cor":"#E7D8EA"},{"nome":"atalcado","forca":66,"cor":"#EEDDCC"},{"nome":"amargo","forca":62,"cor":"#C1C316"},{"nome":"doce","forca":60,"cor":"#EE363B"},{"nome":"fresco especiado","forca":44,"cor":"#83C928"}],"notas":{"topo":["Absinto","Anis","Erva-Doce"],"coracao":["Lavanda"],"fundo":["Casca de Baunilha Negra","Almíscar"]},"quando":[{"nome":"Inverno","forca":93,"cor":"#78D6F0","votos":"2,5 mil"},{"nome":"Primavera","forca":47,"cor":"#9FE584","votos":"1,3 mil"},{"nome":"Verão","forca":18,"cor":"#FC958A","votos":"495"},{"nome":"Outono","forca":82,"cor":"#F9BE6E","votos":"2,2 mil"},{"nome":"Dia","forca":27,"cor":"#F59E0B","votos":"724"},{"nome":"Noite","forca":100,"cor":"#8BB8D4","votos":"2,7 mil"}]},"ch-good-girl":{"fonte":"https://www.fragrantica.com.br/perfume/Carolina-Herrera/Good-Girl-39681.html","acordes":[{"nome":"doce","forca":100,"cor":"#EE363B"},{"nome":"floral branco","forca":99,"cor":"#EDF2FB"},{"nome":"baunilha","forca":92,"cor":"#FFFEC0"},{"nome":"especiado quente","forca":92,"cor":"#CC3300"},{"nome":"âmbar","forca":69,"cor":"#BC4D10"},{"nome":"cacau","forca":67,"cor":"#9A3A0D"},{"nome":"amadeirado","forca":67,"cor":"#774414"},{"nome":"tuberosa","forca":63,"cor":"#EBFAF3"},{"nome":"amêndoa","forca":61,"cor":"#F1E3C5"},{"nome":"atalcado","forca":61,"cor":"#EEDDCC"}],"notas":{"topo":["Amêndoa","Café","Bergamota","Limão"],"coracao":["Tuberosa","Jasmim Sambac","Flor de Laranjeira","Rosa Búlgara","Raíz de Orris"],"fundo":["Fava Tonka","Cacau","Baunilha","Pralinê","Sândalo","Almíscar","Âmbar","Madeira de Cashmere","Patchouli","Canela","Cedro"]},"quando":[{"nome":"Inverno","forca":90,"cor":"#78D6F0","votos":"9,8 mil"},{"nome":"Primavera","forca":35,"cor":"#9FE584","votos":"3,8 mil"},{"nome":"Verão","forca":21,"cor":"#FC958A","votos":"2,3 mil"},{"nome":"Outono","forca":82,"cor":"#F9BE6E","votos":"8,9 mil"},{"nome":"Dia","forca":39,"cor":"#F59E0B","votos":"4,3 mil"},{"nome":"Noite","forca":100,"cor":"#8BB8D4","votos":"10,9 mil"}]},"rabanne-million-gold-for-her":{"fonte":"https://www.fragrantica.com.br/perfume/Rabanne/Million-Gold-For-Her-95640.html","acordes":[{"nome":"doce","forca":100,"cor":"#EE363B"},{"nome":"baunilha","forca":90,"cor":"#FFFEC0"},{"nome":"floral amarelo","forca":87,"cor":"#FFDC10"},{"nome":"floral branco","forca":74,"cor":"#EDF2FB"},{"nome":"frutado","forca":68,"cor":"#FC4B29"},{"nome":"almíscarado","forca":66,"cor":"#E7D8EA"},{"nome":"atalcado","forca":66,"cor":"#EEDDCC"},{"nome":"amadeirado","forca":56,"cor":"#774414"},{"nome":"floral","forca":51,"cor":"#FF5F8D"},{"nome":"aquático","forca":50,"cor":"#63CCE2"}],"notas":{"topo":["Pera","Rosa","Lavanda"],"coracao":["Ylang Ylang","Jasmim"],"fundo":["Baunilha","Almíscar","Musgo"]},"quando":[{"nome":"Inverno","forca":80,"cor":"#78D6F0","votos":"671"},{"nome":"Primavera","forca":87,"cor":"#9FE584","votos":"728"},{"nome":"Verão","forca":56,"cor":"#FC958A","votos":"469"},{"nome":"Outono","forca":100,"cor":"#F9BE6E","votos":"841"},{"nome":"Dia","forca":98,"cor":"#F59E0B","votos":"822"},{"nome":"Noite","forca":86,"cor":"#8BB8D4","votos":"726"}]}}</script>
 <script>
-  // abre direto na aba Testers quando o link termina em #testers, e mantém o endereço certo ao trocar de aba
+  // abre direto numa aba quando o link termina em #testers ou #relogios, e mantém o endereço certo ao trocar de aba
   (function () {
-    var t = document.getElementById('aba-testers'), p = document.getElementById('aba-perfumes');
-    if (location.hash === '#testers') t.checked = true;
-    function sync() { try { history.replaceState(null, '', t.checked ? '#testers' : location.pathname + location.search); } catch (e) {} }
-    t.addEventListener('change', sync);
+    var p = document.getElementById('aba-perfumes');
+    var abas = { '#testers': document.getElementById('aba-testers'), '#relogios': document.getElementById('aba-relogios') };
+    function pelaHash() { (abas[location.hash] || p).checked = true; }
+    if (abas[location.hash]) pelaHash();
+    function sync() {
+      var h = ''; for (var k in abas) if (abas[k] && abas[k].checked) h = k;
+      try { history.replaceState(null, '', h || location.pathname + location.search); } catch (e) {}
+    }
     p.addEventListener('change', sync);
-    addEventListener('hashchange', function () { (location.hash === '#testers' ? t : p).checked = true; });
+    for (var k in abas) if (abas[k]) abas[k].addEventListener('change', sync);
+    addEventListener('hashchange', pelaHash);
   })();
 
   // tocar/clicar na foto de um perfume abre ela grande; fecha no X, tocando em qualquer lugar, com Esc ou com o "voltar" do celular
@@ -1876,7 +1984,7 @@
       var por = precoEl ? texto(precoEl).replace(cur, '').trim() : '';
       var off = texto(item.querySelector('.seal b')).replace(/\s+/g, '');
       var esgotado = item.classList.contains('esgotado');
-      var tester = !!item.closest('#painel-testers');
+      var tester = !!item.closest('#painel-testers'), relogio = !!item.closest('#painel-relogios');
       var condEl = item.querySelector('.cond span');
       var condTxt = condEl ? texto(condEl).toLowerCase() : '';
       if (!por) return;
@@ -1887,8 +1995,10 @@
       cap.appendChild(preco);
       if (esgotado) return;   // esgotado: mostra o preço, sem botão de comprar
       var tipo = tester ? (condTxt === 'cheio' ? 'tester cheio' : (condTxt ? 'tester com ' + condTxt : 'tester')) : 'lacrado';
-      var detalhes = [marca, vol, tipo].filter(Boolean).join(', ');
-      var msg = 'Oii, quero comprar o ' + nome + (detalhes ? ' (' + detalhes + ')' : '') + ' por R$ ' + por + '. Ainda está disponível?';
+      // relógio: "o relógio Technos Racer Prata e Verde (2315LAV/1V, novo)" — a marca entra no nome, a referência fica no lugar do volume
+      var detalhes = relogio ? [vol, condTxt].filter(Boolean).join(', ') : [marca, vol, tipo].filter(Boolean).join(', ');
+      var oque = relogio ? 'o relógio ' + [marca, nome].filter(Boolean).join(' ') : 'o ' + nome;
+      var msg = 'Oii, quero comprar ' + oque + (detalhes ? ' (' + detalhes + ')' : '') + ' por R$ ' + por + '. Ainda está disponível?';
       var a = el('a', 'lb-comprar');
       a.href = WA + '?text=' + encodeURIComponent(msg);
       a.target = '_blank'; a.rel = 'noopener';
